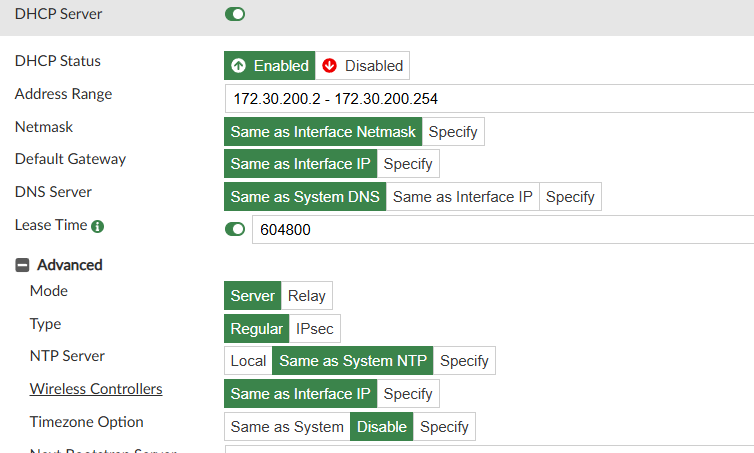
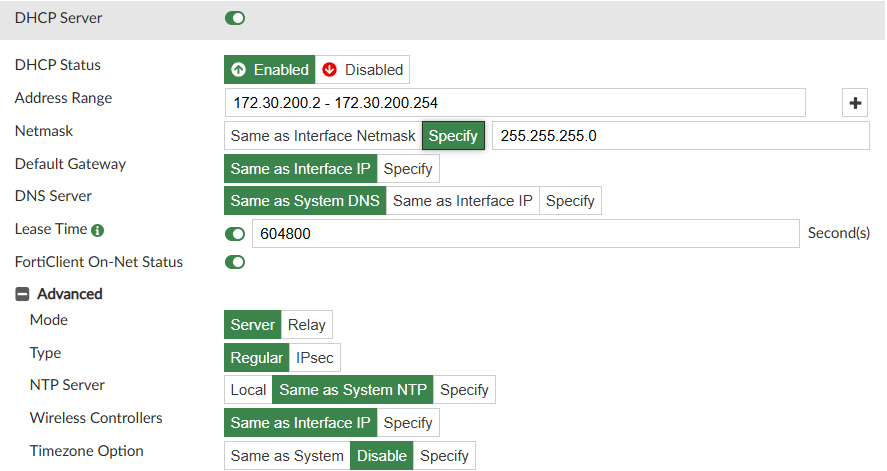
Changes to Lab after discovering a bug

diff --git a/labs/Lab2.md b/labs/Lab2.md
@@ -1,8 +1,9 @@
-# Lab 2 - Provisioning LAN Edge
+# Lab 2 - Provisioning Switch
 
 | Device       | Username/PW        |
 | ------------ | ------------------ |
 | FabricStudio | admin/fortinet1!   |
+| FortiManager | admin/fortinet4A!! |
 | FGTDC01      | admin/fortinet4A!! |
 
 ### Adding the Fortiswitch
@@ -10,7 +11,8 @@
 >[!NOTE]
 > This Lab has dissabled central managment for Switch and AP manager to focus more closely on ease configruation. Please leave them off
 
-1. Navagate to FortiSwitch Manager -> Managed FortiSwitches and "Create New" Fortiswitch
+1. Navagate to FortiSwitch Manager > Managed FortiSwitches and "Create New" Fortiswitch
+![](media/Lab2-3.png)
 2. Exploring Wildcard Switches, please add the following
    - Fortigate : FGTBr01
    - Serial Number : SM10GF****000000
@@ -24,9 +26,82 @@
 >
 > ![](media/Lab2-2.png)
 
-4. Before Connecting the fortiswitch lets provision a pair of vlans for use later, 
+### Adding Vlans
 
-| Name               | Network         | Gateway        | Vlan ID |
-| ------------------ | --------------- | -------------- | ------- |
-| Wireless MGMT Vlan | 172.30.200.0/24 | 172.30.200.254 |         |
-| User Vlan          | 172.30.210.0/24 | 172.30.210.254 |         |
+4. Before Connecting the fortiswitch lets provision a pair of vlans for use later
+
+| Name        | Network         | Gateway        | Vlan ID |
+| ----------- | --------------- | -------------- | ------- |
+| AP Mgmt     | 172.30.200.0/24 | 172.30.200.254 | 200     |
+| User Access | 172.30.210.0/24 | 172.30.210.254 | 210     |
+
+5. Navagate to FortiSwitch Manager > Managed FortiSwitches > Vlan and "Create New" Vlan Interface
+
+>[!caution]
+>If when creating your DHCP scopes for the following Vlans you notice no range go back up to the addressing mode and reset it to "manual" and reconfirm
+6. First Vlan will be :
+    - Interface Name : AP Mgmt
+    - Vlan ID : 200
+    - IP/Netmask : 172.30.200.1/24
+    - Admin Access : Ping and Secuirty Fabric Connection Enabled
+    - DHCP Server Enabled
+      - Address Range : Leave default
+      - Netmask : Specify - 255.255.255.0
+      - Change DNS to be "Same as System DNS"
+      - Under Advanced Change NTP to "Same as System NTP"
+      - Change Wireless Controllers to "Same as Interface IP"
+      - Leave the rest Default
+![](media/Lab2-4.png)
+   - Lastly at the bottem Select Map to Normalized Interfaces and create new
+![](media/Lab2-5.png)
+   - Name : AP Mgmt
+   - Per-Platform Mapping : Create New
+     - Matched Platform : All
+     - Mapped Interface Name : AP Mgmt
+![](media/Lab2-6.png)
+     - Click OK and add change notes
+   - Select The Mapping you Created 
+   - Click OK again and add change notes
+
+7. The second Vlan:
+   - Interface Name : User Access
+   - Vlan ID : 210
+   - IP/Netmask : 172.30.210.1/24
+   - Admin Access : Ping, HTTPS and SSH Enabled
+   - DHCP Server Enabled
+      - Address Range : Leave default
+      - Netmask : Specify - 255.255.255.0
+      - Change DNS to be "Same as System DNS"
+      - Under Advanced Change NTP to "Same as System NTP"
+      - Change Wireless Controllers to "Same as Interface IP"
+      - Leave the rest Default
+   - Lastly at the bottem Select Map to Normalized Interfaces and create new
+   - Name : User Access
+   - Per-Platform Mapping : Create New
+     - Matched Platform : All
+     - Mapped Interface Name : User Access
+     - Click OK and add change notes
+   - Select The Mapping you Created 
+   - Click OK again and add change notes
+
+>You should now have two New Vlans ![](media/Lab2-7.png)
+
+1. Lastly, Lets configure two switchports on the Model Fortiswitch. Navagate back to the Fortiswitch you created and Edit
+2. Configure: 
+    - Port1 Native Vlan : AP Mgmt / Allowed Vlans : All
+    - Port2 Native Vlan : User Access 
+
+![](media/Lab2-8.png)
+
+10. From the top use the install wizzard to install device settings only
+11. Finally Powerup and connect your Switch PortA on FGTBr01 to Port 10 on your switch
+    - You can either wait for it to finish or continue on this will take around 5 - 10 minutes to autolink reboot and finish
+
+![](media/Lab2-9.png)
+
+>[!WARNING]
+> There seems to be a bug with this Beta version of Manager/Gate that causes the Netmask of DHCP servers not to be correctly passed to the fortigate. Please Log onto the Fortigate directly after the install and check that your server ranges for the two vlans you created have a valid Netmask, they will likely have a 0.0.0.0
+> ![](media/Lab2-10.png)
+> After you've fixed these go ahead and do a quick install on FGTBr01, it will go back to happy
+
+#### Lab complete move onto Lab 3
